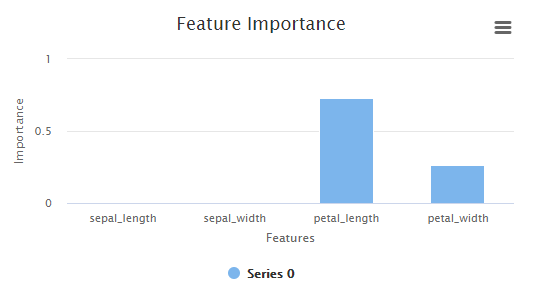
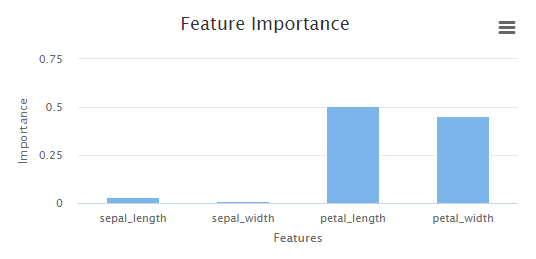
adding images

diff --git a/README.md b/README.md
@@ -44,8 +44,11 @@ The metrics which it shows are: precision, recall, f1-score and support.
 
 Examples:
 
-![first](https://github.com/AccessibleAI/ailibrary/blob/master/_docs/readme_images/classification_report.png)
+1) Iris data set (3 labels) - 
+![first_class_rep](https://github.com/AccessibleAI/ailibrary/blob/master/_docs/readme_images/classification_report.png)
 
+2) 2-labels data set - 
+![second_class_rep](https://github.com/AccessibleAI/ailibrary/blob/master/_docs/readme_images/classification_report_2.png)
 
 #### Confusion Matrix
 Confusion Matrix is a table which evaluates accuracy by computing the confusion matrix with each row corresponding to the true class.\
@@ -56,6 +59,12 @@ So, the confusion matrix is going to be 4 * 4 table where the y-axis describes t
 
 Examples:
 
+1) 2-labels data set -
+![first_conf_mat](https://github.com/AccessibleAI/ailibrary/blob/master/_docs/readme_images/confustion_matrix.png)
+
+2) 3-labels data set - 
+![second_conf_mat](https://github.com/AccessibleAI/ailibrary/blob/master/_docs/readme_images/confustion_matrix_2.png)
+
 
 #### Feature Importance
 Feature importance is a bars chars where the features names are the x-axis and the y-axis is a range of floats between 0 to 1 (or the opposite).\
@@ -63,5 +72,10 @@ Each bar, belongs the single feature, represents a float number which is the sco
 It can be used for feature selection, dimensionality reduction, improving estimators accuracy and boosting performance.
 
 Examples:
- 
+
+1) 
+![first_fea_imp](https://github.com/AccessibleAI/ailibrary/blob/master/_docs/readme_images/feature_importance.png)
+
+2) 
+![second_fea_imp]()
 
